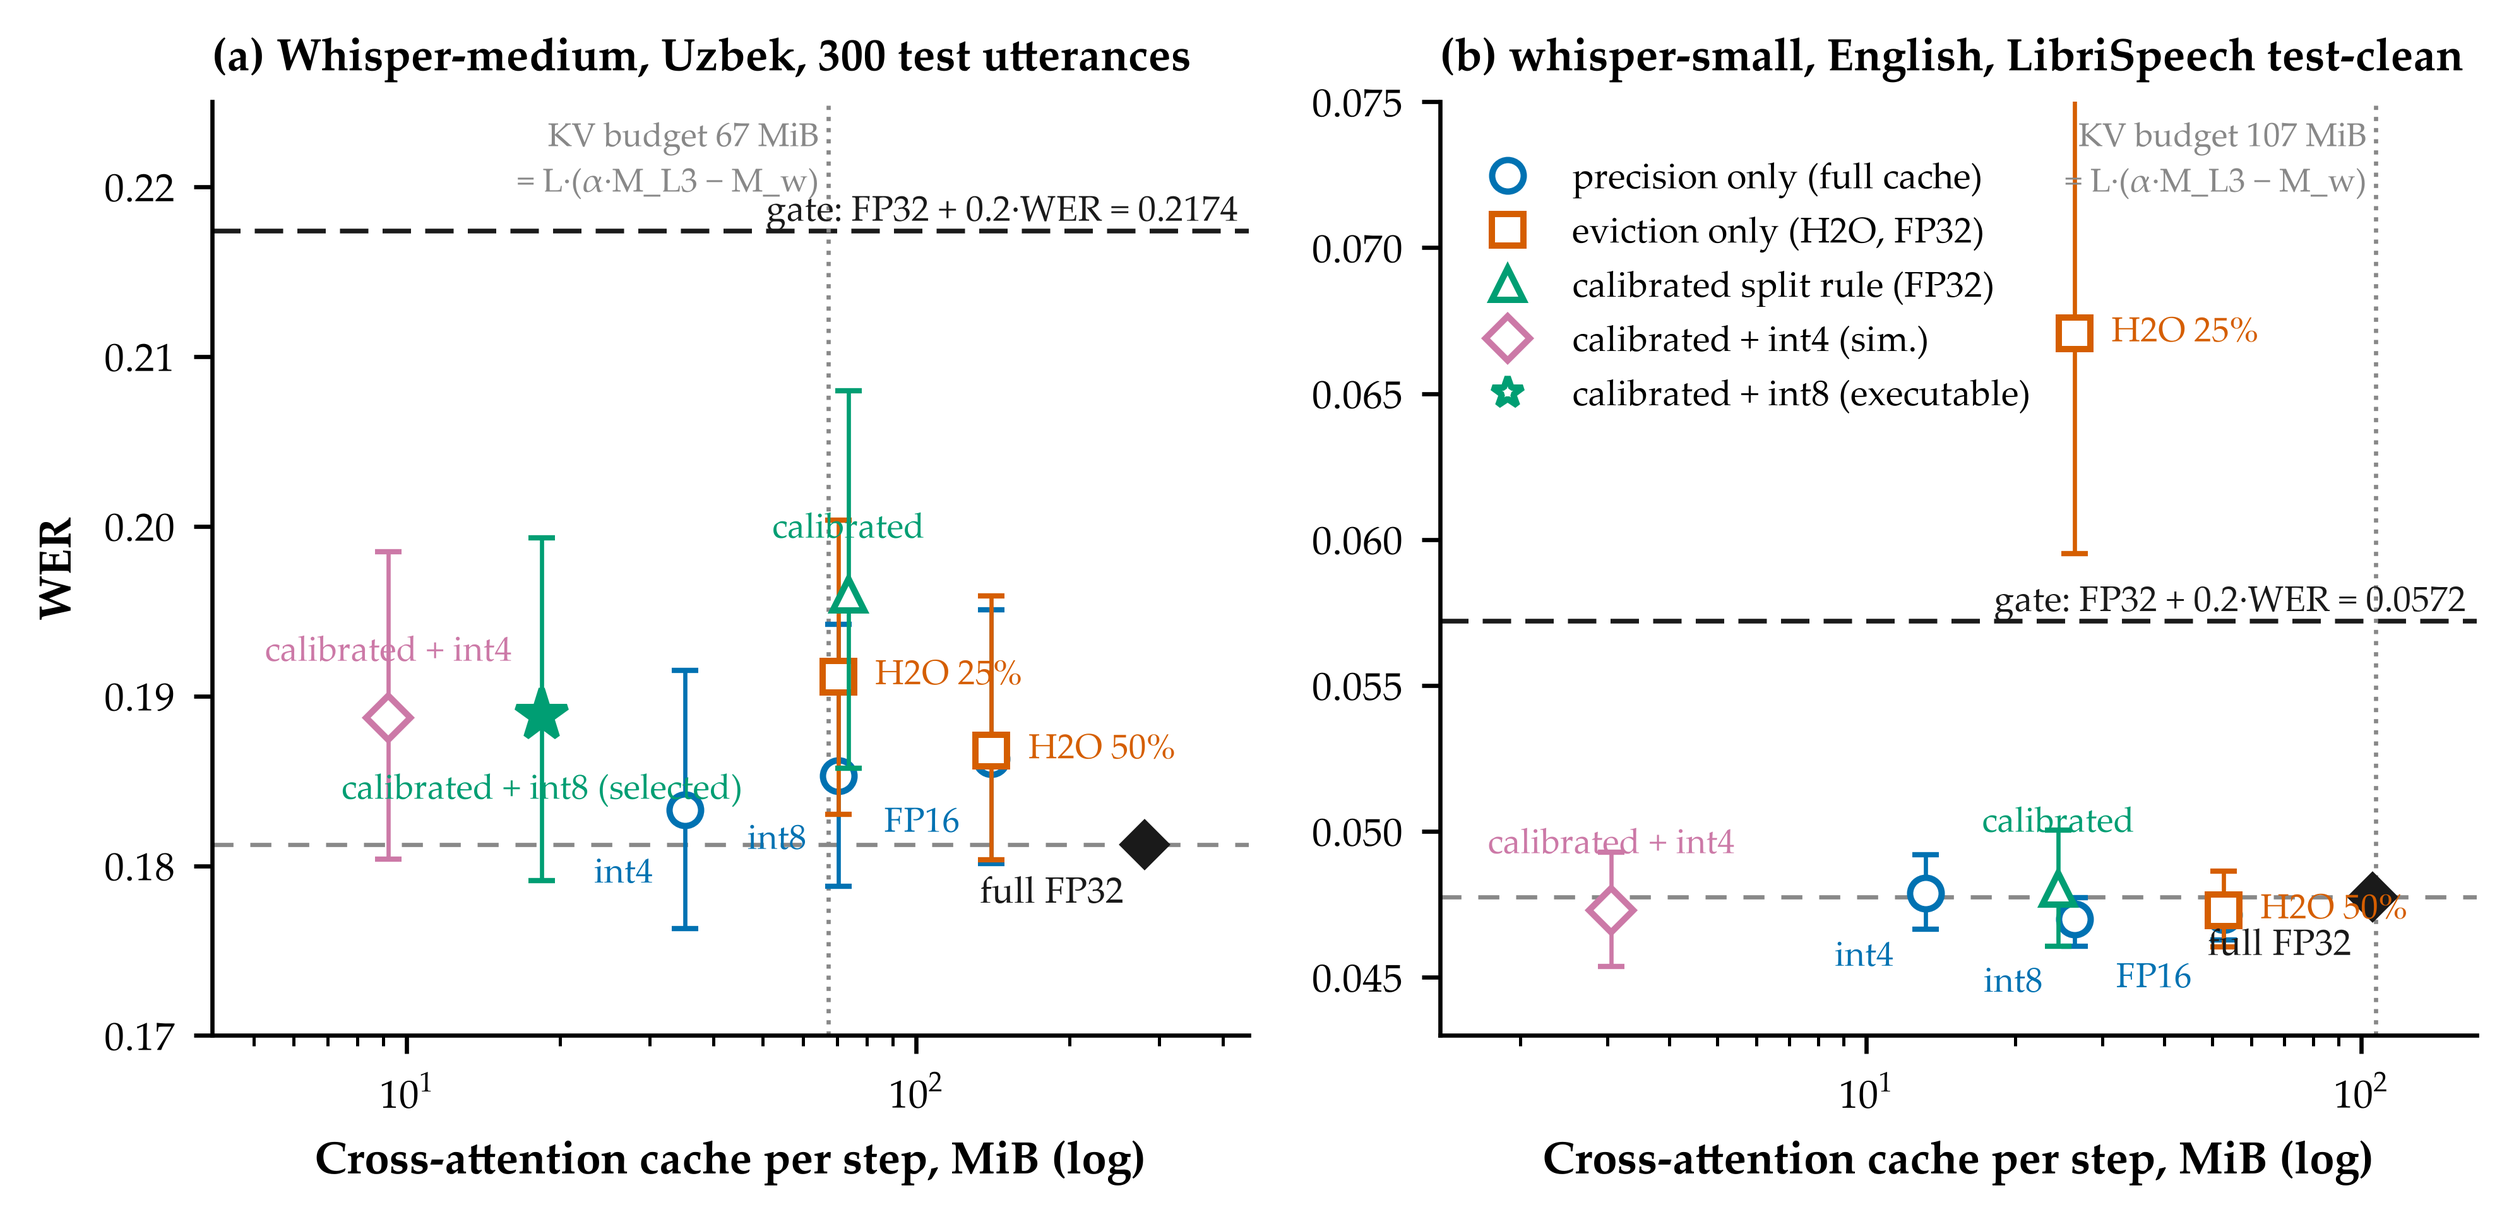
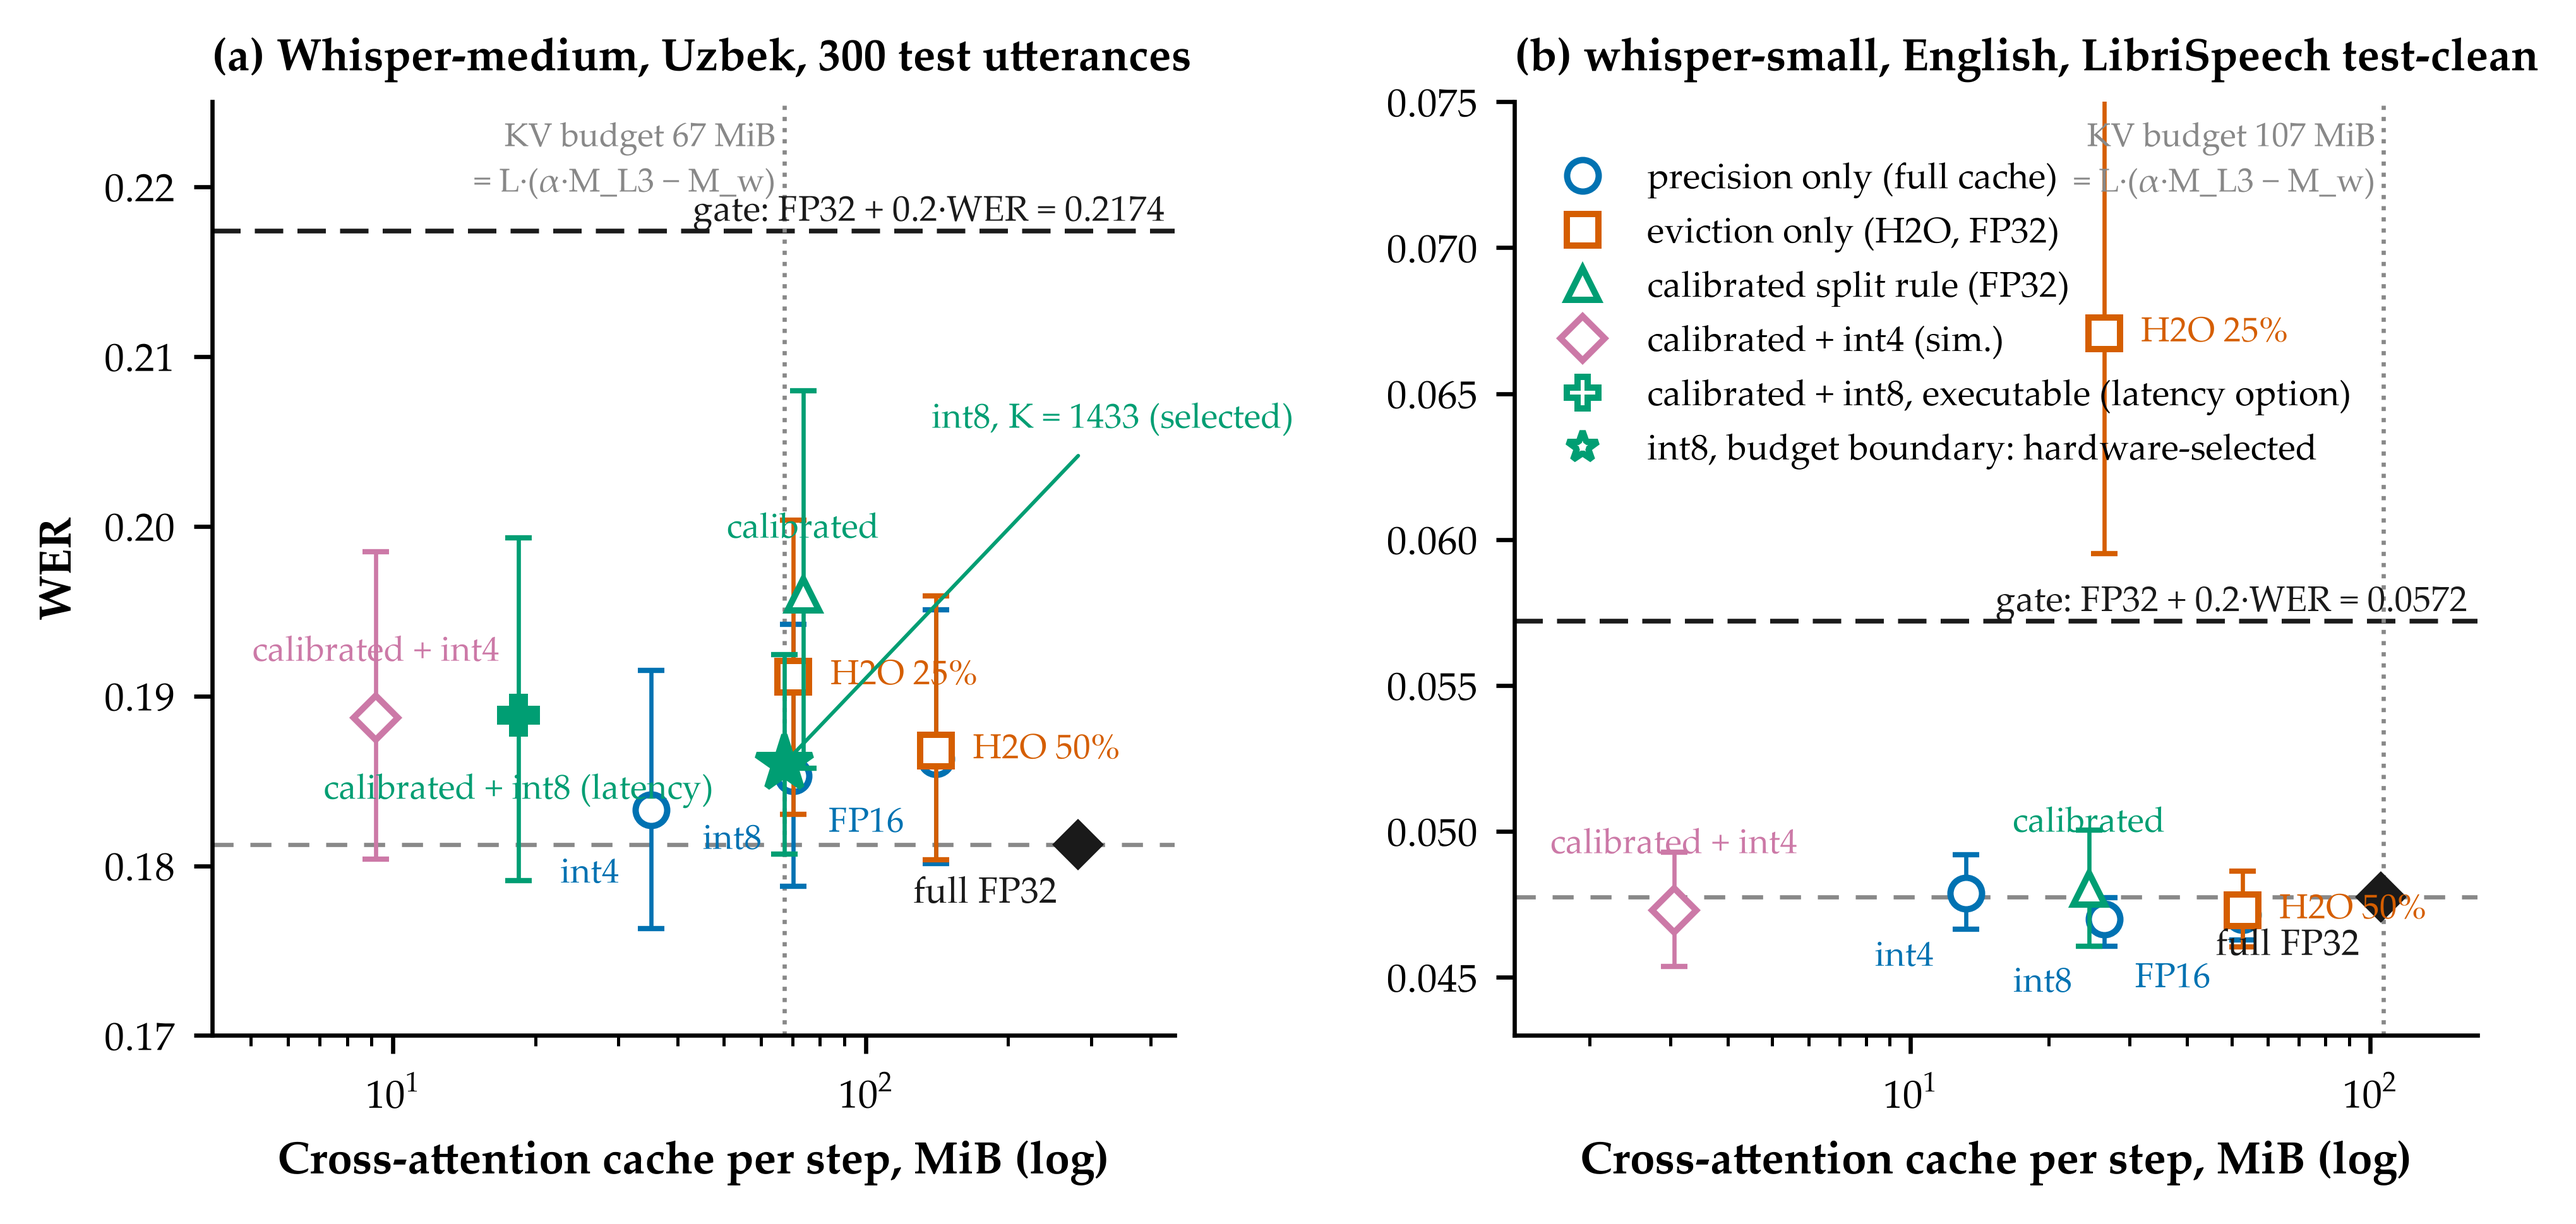
Figures 6 and 8: hardware-selected point moved to the budget boundary (int8, K = 1433)

diff --git a/experiments/make_figures_kv.py b/experiments/make_figures_kv.py
@@ -56,6 +56,7 @@ def cache_wer():
     e5 = J("results_cache_eviction_wer_cascade_n300.json")["arms"]
     e6 = J("results_eviction_budget_medium_uz.json")["test"]
     cb = J("results_eviction_combo_medium_uz.json")["arms"]
+    bd = J("results_boundary_int8_medium_uz.json")
     ref = e6["full"]["wer"]
     pts = [("prec", e1["fp16"]["cross_cache_mib"], e1["fp16"]["wer"], e1["fp16"]["delta_vs_fp32"], "FP16"),
            ("prec", e1["int8_kivi"]["cross_cache_mib"], e1["int8_kivi"]["wer"], e1["int8_kivi"]["delta_vs_fp32"], "int8"),
@@ -64,7 +65,8 @@ def cache_wer():
            ("evict", e5["mass25/fp32"]["cross_cache_mib_mean"], e5["mass25/fp32"]["wer"], e5["mass25/fp32"]["delta_vs_full"], "H2O 25%"),
            ("ours", e6["split/1.000/0.100"]["mib"], e6["split/1.000/0.100"]["wer"], e6["split/1.000/0.100"]["delta_vs_full"], "calibrated"),
            ("both", cb["split/int4_kivi"]["mib"], cb["split/int4_kivi"]["wer"], cb["split/int4_kivi"]["delta_vs_full"], "calibrated + int4"),
-           ("exec", cb["split/int8_head"]["mib"], cb["split/int8_head"]["wer"], cb["split/int8_head"]["delta_vs_full"], "calibrated + int8 (selected)")]
+           ("lat", cb["split/int8_head"]["mib"], cb["split/int8_head"]["wer"], cb["split/int8_head"]["delta_vs_full"], "calibrated + int8 (latency)"),
+           ("exec", bd["mib"], bd["wer"], bd["delta_vs_full"], f"int8, K = {bd['K']} (selected)")]
     panels.append(("(a) Whisper-medium, Uzbek, 300 test utterances", e6["full"]["mib"], ref, pts, "medium_uz"))
 
     s7 = J("results_cache_sweep_small_en_n300.json")["arms"]
@@ -85,7 +87,8 @@ def cache_wer():
              "evict": (ORANGE, "s", "eviction only (H2O, FP32)"),
              "ours": (GREEN, "^", "calibrated split rule (FP32)"),
              "both": (PINK, "D", "calibrated + int4 (sim.)"),
-             "exec": (GREEN, "*", "calibrated + int8 (executable)")}
+             "lat": (GREEN, "P", "calibrated + int8, executable (latency option)"),
+             "exec": (GREEN, "*", "int8, budget boundary: hardware-selected")}
     fig, axes = plt.subplots(1, 2, figsize=(6.69, 3.3))
     for ax, (title, full_mib, ref, pts, name) in zip(axes, panels):
         gate = round(ref, 4) + round(ref * EPS, 4)
@@ -99,13 +102,19 @@ def cache_wer():
         for fam, x, y, (_, lo, hi), lab in pts:
             col, mk, _ = style[fam]
             ci_bar(ax, x, y, ref, lo, hi, col)
-            ax.plot([x], [y], marker=mk, ms=10 if fam == "exec" else 6, mfc=col if fam == "exec" else "white",
+            ax.plot([x], [y], marker=mk, ms=11 if fam == "exec" else (7 if fam == "lat" else 6),
+                    mfc=col if fam in ("exec", "lat") else "white",
                     mec=col, mew=1.2, ls="none")
             off = {"prec": ((-6, -9), "right", "top"),
                    "evict": ((7, 0), "left", "center"),
                    "ours": ((0, 9), "center", "bottom"),
                    "both": ((0, 9), "center", "bottom"),
-                   "exec": ((0, -11), "center", "top")}[fam]
+                   "lat": ((0, -11), "center", "top"),
+                   "exec": ((-6, 24), "right", "bottom")}[fam]
+            if fam == "exec":
+                ax.annotate(lab, (x, y), xytext=(28, 62), textcoords="offset points", ha="left", va="bottom",
+                            fontsize=6.6, color=col, arrowprops=dict(arrowstyle="-", color=col, lw=0.7))
+                continue
             ax.annotate(lab, (x, y), xytext=off[0], textcoords="offset points",
                         ha=off[1], va=off[2], fontsize=6.6, color=col)
         ax.set_xscale("log")

diff --git a/experiments/make_figures_concept.py b/experiments/make_figures_concept.py
@@ -164,8 +164,8 @@ def c3_qr_space():
                     mfc=(GREEN if is_sel else (BLUE if ok else "white")),
                     mec=GREEN if is_sel else (BLUE if ok else ORANGE), mew=1.3, ls="none")
             if is_sel:
-                ax.annotate(f"selected (α = 0.7):\n{lab}, {mib:.0f} MiB", (r, bits), xytext=((14, 10) if name == "medium_uz" else (-14, -28)),
-                            textcoords="offset points", ha=("left" if name == "medium_uz" else "right"), va=("bottom" if name == "medium_uz" else "top"), fontsize=6.8, color=GREEN)
+                ax.annotate(f"selected (α = 0.7):\n{lab}, {mib:.0f} MiB", (r, bits), xytext=((-16, -30) if name == "medium_uz" else (-14, -28)),
+                            textcoords="offset points", ha="right", va="top", fontsize=6.8, color=GREEN)
         ax.set_yscale("log", base=2)
         ax.set_yticks([4, 8, 16, 32], ["int4", "int8", "FP16", "FP32"])
         ax.set_ylim(3, 48)

diff --git a/experiments/hardware_select.py b/experiments/hardware_select.py
@@ -56,6 +56,10 @@ def candidates(name):
                        ("split/int8_head", "int8 head, split")]:
             if k in cb:
                 C.append((lab, cb[k]["mib"], cb[k]["delta_vs_full"], cb[k]["per_sample_wer"]))
+        bpath = os.path.join(HERE, "results_boundary_int8_medium_uz.json")
+        if os.path.exists(bpath):
+            bd = J("results_boundary_int8_medium_uz.json")
+            C.append((f"int8 head, K={bd['K']}", bd["mib"], bd["delta_vs_full"], bd["per_sample_wer"]))
         ref = e1["fp32"]["wer"]
     else:
         s7 = J("results_cache_sweep_small_en_n300.json")["arms"]
